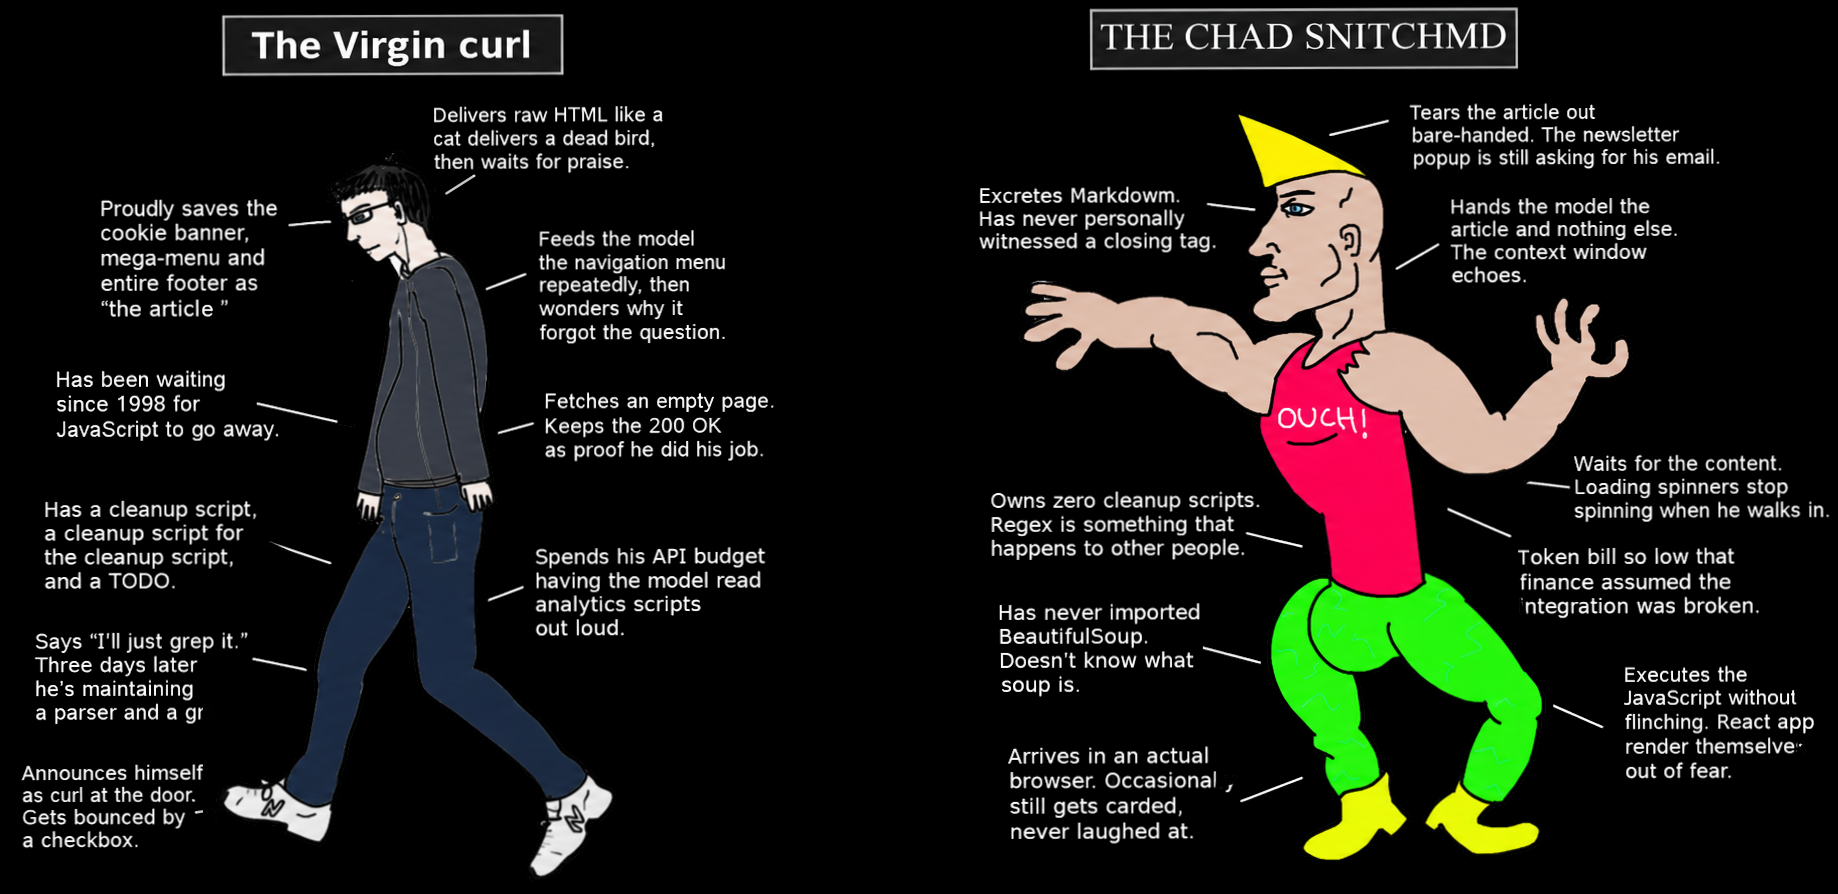
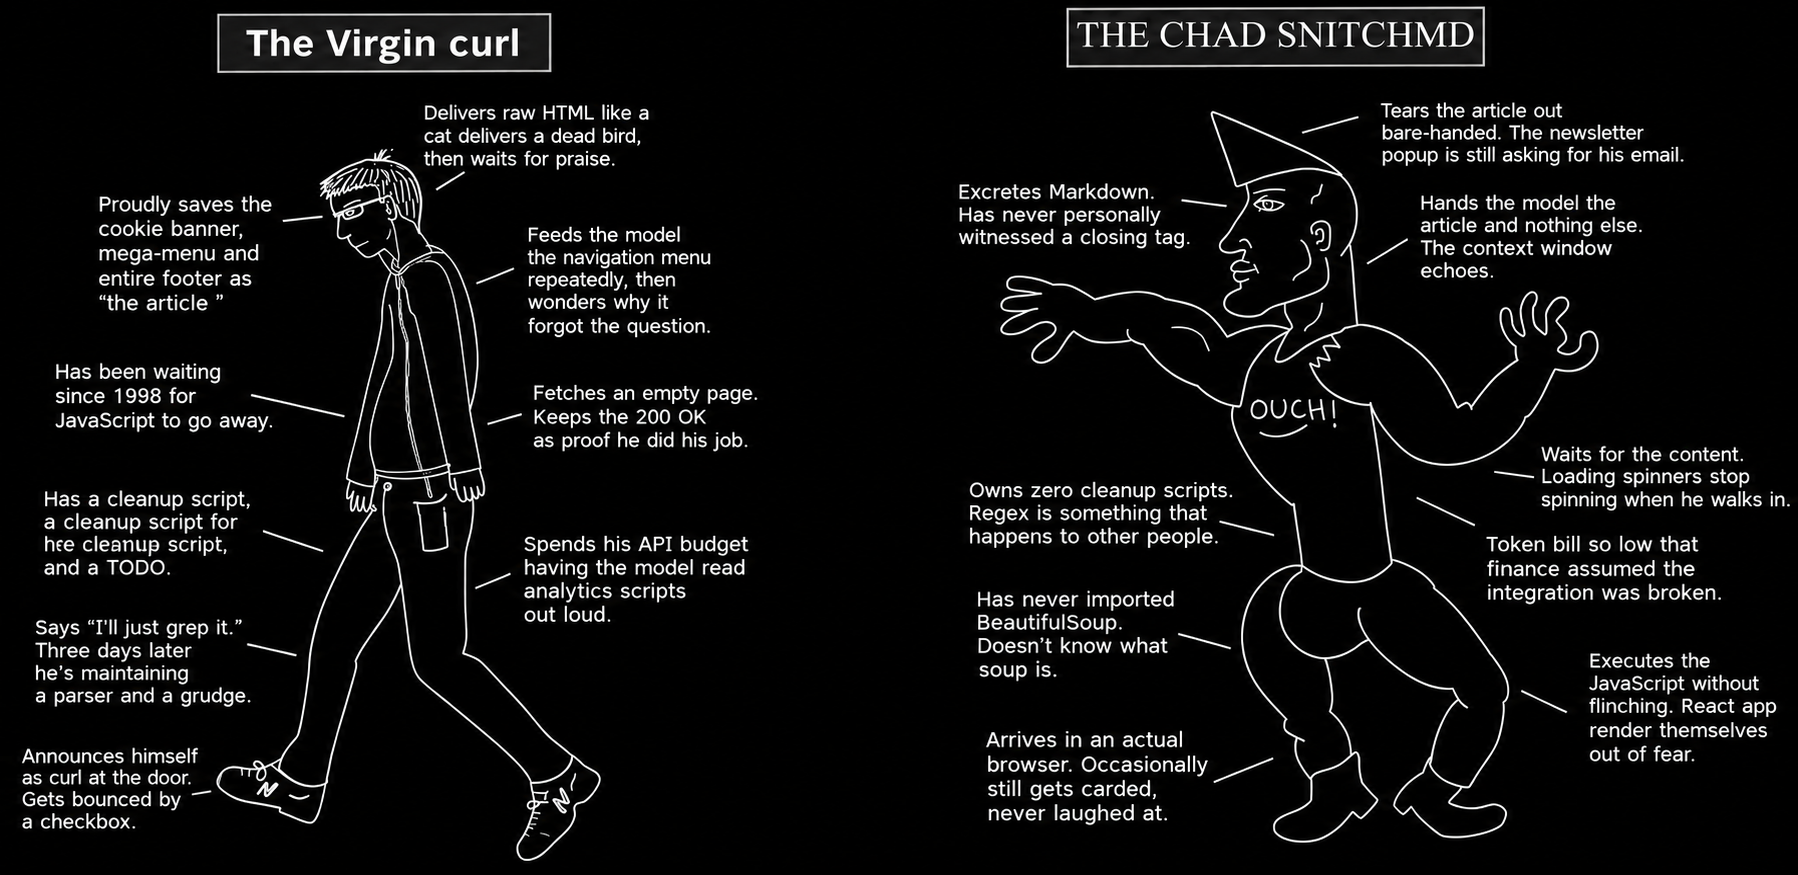
FEAT: use monochrome curl-vs-snitchmd meme and tighten feature columns

diff --git a/website/index.html b/website/index.html
@@ -494,12 +494,12 @@
     }
 
     .grid-3 .col {
-      text-align: center;
+      max-width: 240px;
     }
     .feature-art {
       margin: 0 auto 24px;
       width: 100%;
-      max-width: 220px;
+      max-width: 240px;
       aspect-ratio: 1 / 1;
       display: flex;
       align-items: center;
